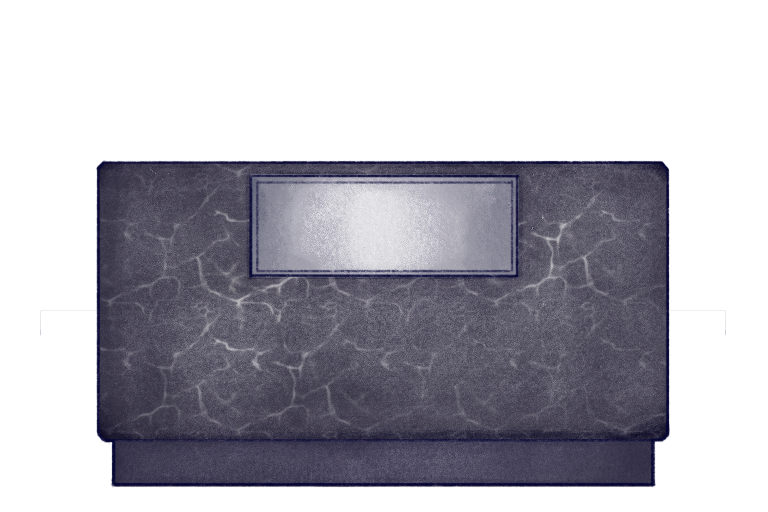
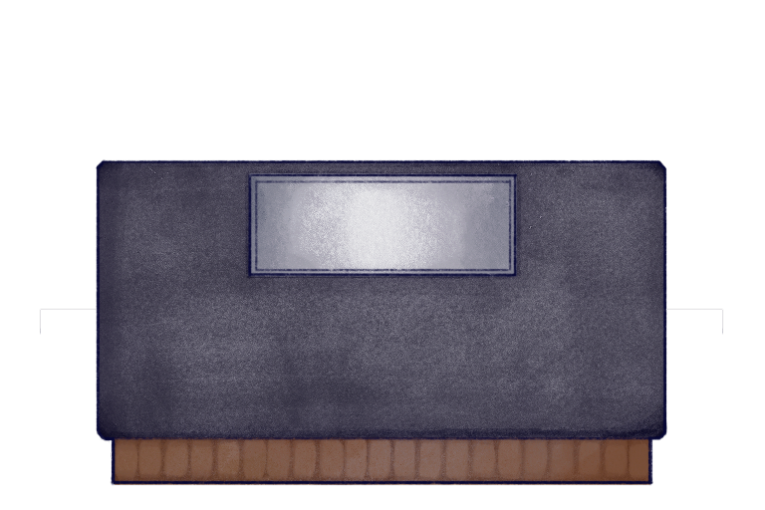
Replaced flooring + counters. New art assets in the Materials & Shaders folder and Art folder.

diff --git a/eJam/Assets/Scripts/script_Cooking.cs b/eJam/Assets/Scripts/script_Cooking.cs
@@ -88,7 +88,7 @@ public class script_Cooking : MonoBehaviour
         ref_FoodScript.SetCookingStatus();
         
         // Calls the function "StartCooking" every float_TimeStep second(s)
-        // The function won't get called every frame, but it will simulate the effect of 
+        // The function won't get called every frame, but this will simulate the effect of 
         // calling Update. 
         ref_FoodScript.InvokeRepeating("StartCooking", 0, float_TimeStep);
     }
